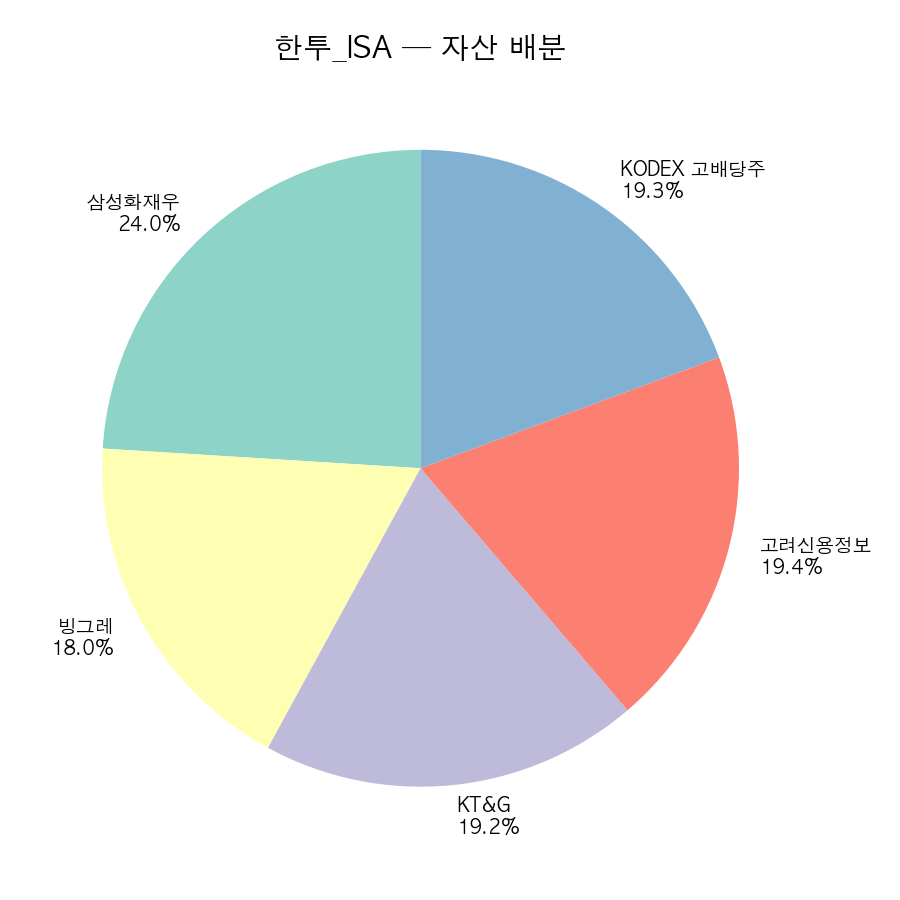
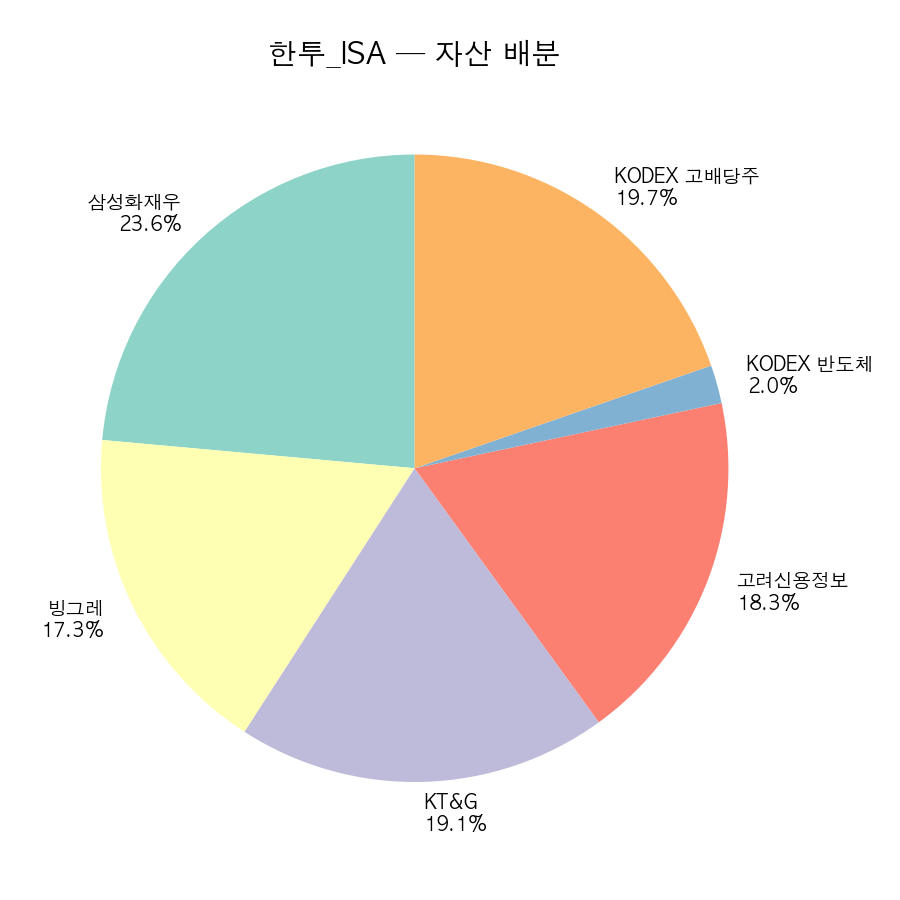
섹션별 주간 리포트 (자동 생성)

diff --git a/_posts/2026-06-19-etf-weekly-week11.md b/_posts/2026-06-19-etf-weekly-week11.md
@@ -1,0 +1,51 @@
+---
+layout: post
+title: "Week 11 — 부모님 연금 ETF 주간 리포트"
+date: 2026-06-19
+categories: [investing, etf]
+tags: [weekly]
+---
+
+> 부모님 연금저축 ETF 실험 — 11주차 기록.
+
+---
+
+## 11주차 성과
+
+### 엄마_연금
+
+| 종목 | 수량 | 평단가 | 종가 | 평가액 | 수익률 |
+|------|------|--------|------|--------|--------|
+| RISE 200 | 9주 | ₩80,163 | ₩138,640 | ₩1,247,760 | +72.9% |
+| ACE KRX금현물 | 37주 | ₩31,329 | ₩28,805 | ₩1,065,785 | -8.1% |
+| KODEX 미국S&P500 | 34주 | ₩22,947 | ₩25,570 | ₩869,380 | +11.4% |
+| TIGER Fn신재생에너지 | 19주 | ₩27,630 | ₩32,350 | ₩614,650 | +17.1% |
+| KODEX 인도Nifty50 | 32주 | ₩12,525 | ₩12,700 | ₩406,400 | +1.4% |
+| TIGER 원유선물Enhanced(H) | 24주 | ₩6,925 | ₩6,480 | ₩155,520 | -6.4% |
+
+**투자 ₩3,752,812 → 평가 ₩4,359,495 | +606,683원 (+16.2%)**
+
+예수금: ₩2,858,928
+---
+
+### 아빠_연금
+
+| 종목 | 수량 | 평단가 | 종가 | 평가액 | 수익률 |
+|------|------|--------|------|--------|--------|
+| RISE 200 | 9주 | ₩80,165 | ₩122,700 | ₩1,104,300 | +53.0% |
+| ACE KRX금현물 | 37주 | ₩31,331 | ₩29,610 | ₩1,095,570 | -5.5% |
+| KODEX 미국S&P500 | 34주 | ₩22,945 | ₩26,015 | ₩884,510 | +13.4% |
+| TIGER Fn신재생에너지 | 19주 | ₩27,634 | ₩28,250 | ₩536,750 | +2.2% |
+| KODEX 인도Nifty50 | 32주 | ₩12,535 | ₩12,565 | ₩402,080 | +0.2% |
+| TIGER 원유선물Enhanced(H) | 24주 | ₩6,912 | ₩7,430 | ₩178,320 | +7.5% |
+| ACE TDF2030액티브 적격 | 3주 | ₩11,115 | ₩11,480 | ₩34,440 | +3.3% |
+| PLUS 고배당주 | 1주 | ₩25,370 | ₩25,620 | ₩25,620 | +1.0% |
+
+**투자 ₩3,811,597 → 평가 ₩4,261,590 | +449,993원 (+11.8%)**
+
+예수금: ₩2,209,604
+
+
+---
+
+*데이터: 한국투자증권 KIS Open API / 2026-06-19 장 마감 기준*

diff --git a/_posts/2026-06-19-dividend-weekly-week11.md b/_posts/2026-06-19-dividend-weekly-week11.md
@@ -1,0 +1,33 @@
+---
+layout: post
+title: "Week 11 — ISA 배당 포트 주간 리포트"
+date: 2026-06-19
+categories: [investing, dividend]
+tags: [weekly]
+---
+
+> ISA 배당 포트폴리오 — 11주차 기록.
+
+---
+
+## 11주차 성과
+
+### 한투_ISA
+
+| 종목 | 수량 | 평단가 | 종가 | 평가액 | 수익률 |
+|------|------|--------|------|--------|--------|
+| 삼성화재우 | 5주 | ₩374,400 | ₩417,500 | ₩2,087,500 | +11.5% |
+| KODEX 고배당주 | 93주 | ₩18,057 | ₩18,760 | ₩1,744,680 | +3.9% |
+| KT&G | 9주 | ₩167,378 | ₩188,100 | ₩1,692,900 | +12.4% |
+| 고려신용정보 | 164주 | ₩10,263 | ₩9,910 | ₩1,625,240 | -3.4% |
+| 빙그레 | 22주 | ₩74,339 | ₩69,700 | ₩1,533,400 | -6.2% |
+| KODEX 반도체 | 1주 | ₩151,495 | ₩174,610 | ₩174,610 | +15.2% |
+
+**투자 ₩8,527,835 → 평가 ₩8,858,330 | +330,495원 (+3.9%)**
+
+예수금: ₩57,658
+
+
+---
+
+*데이터: 한국투자증권 KIS Open API / 2026-06-19 장 마감 기준*
